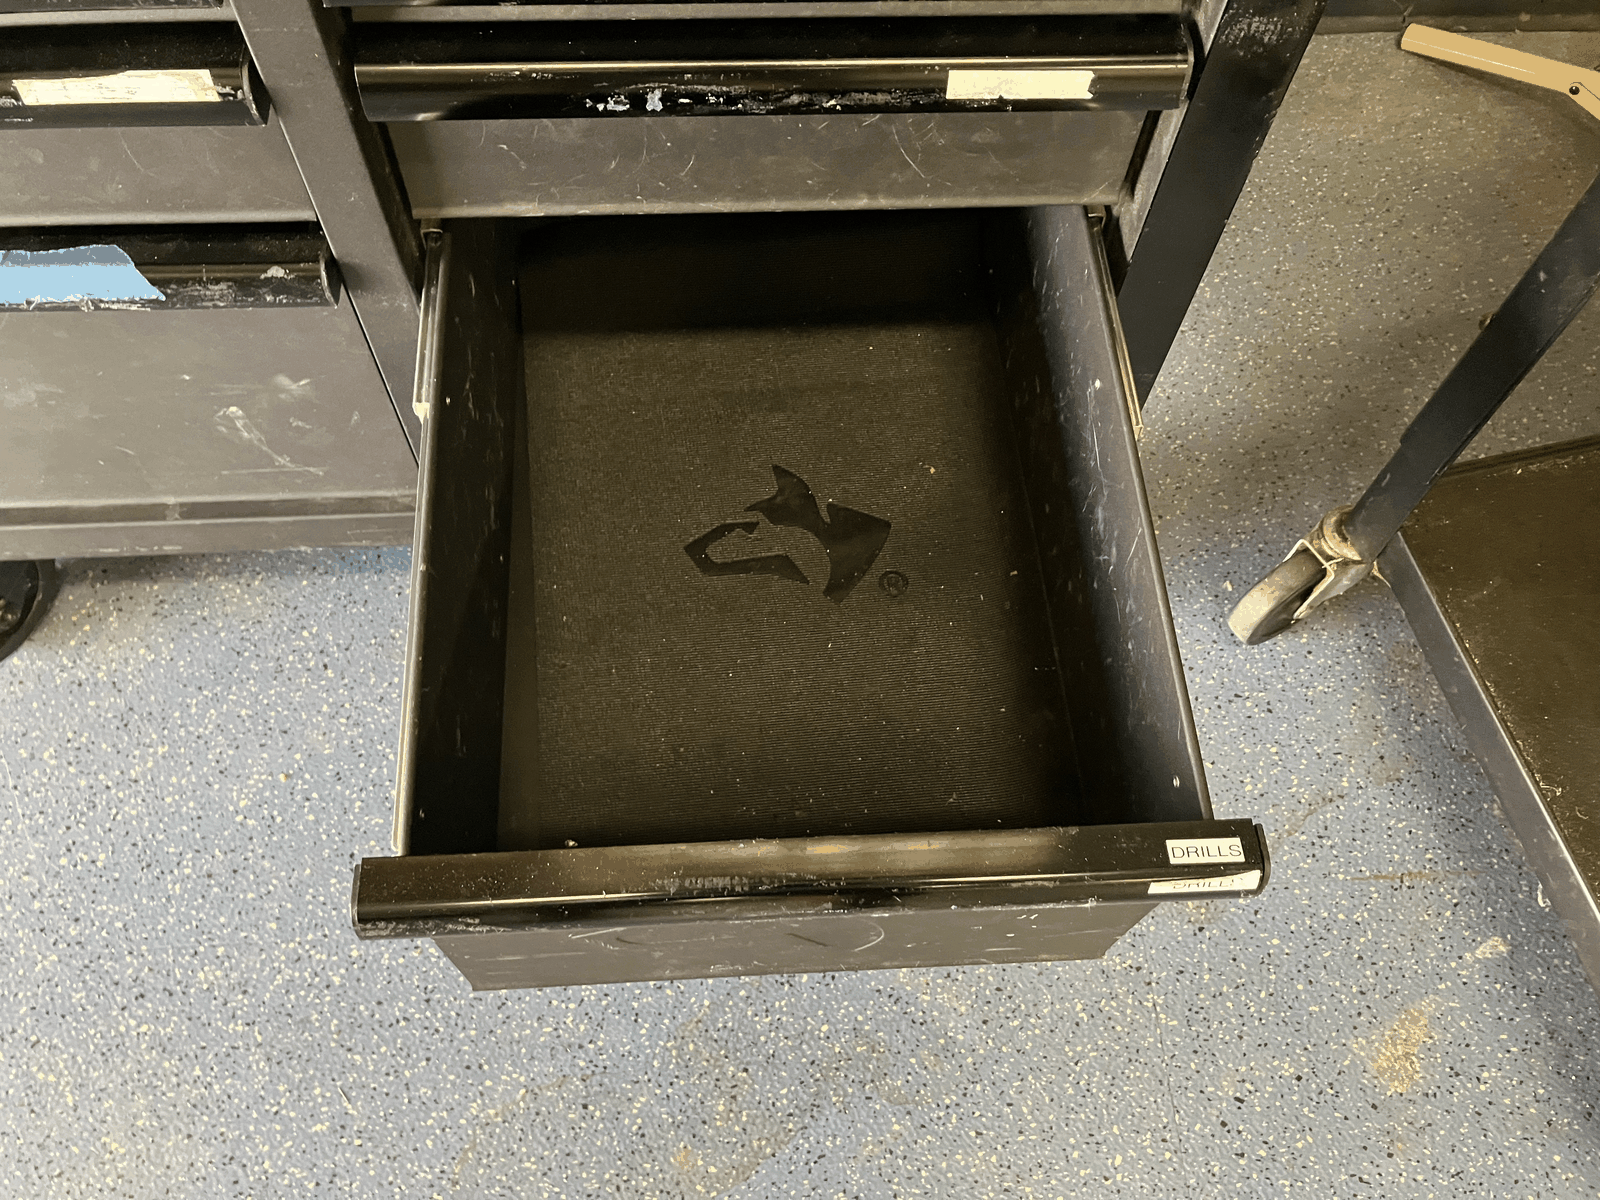
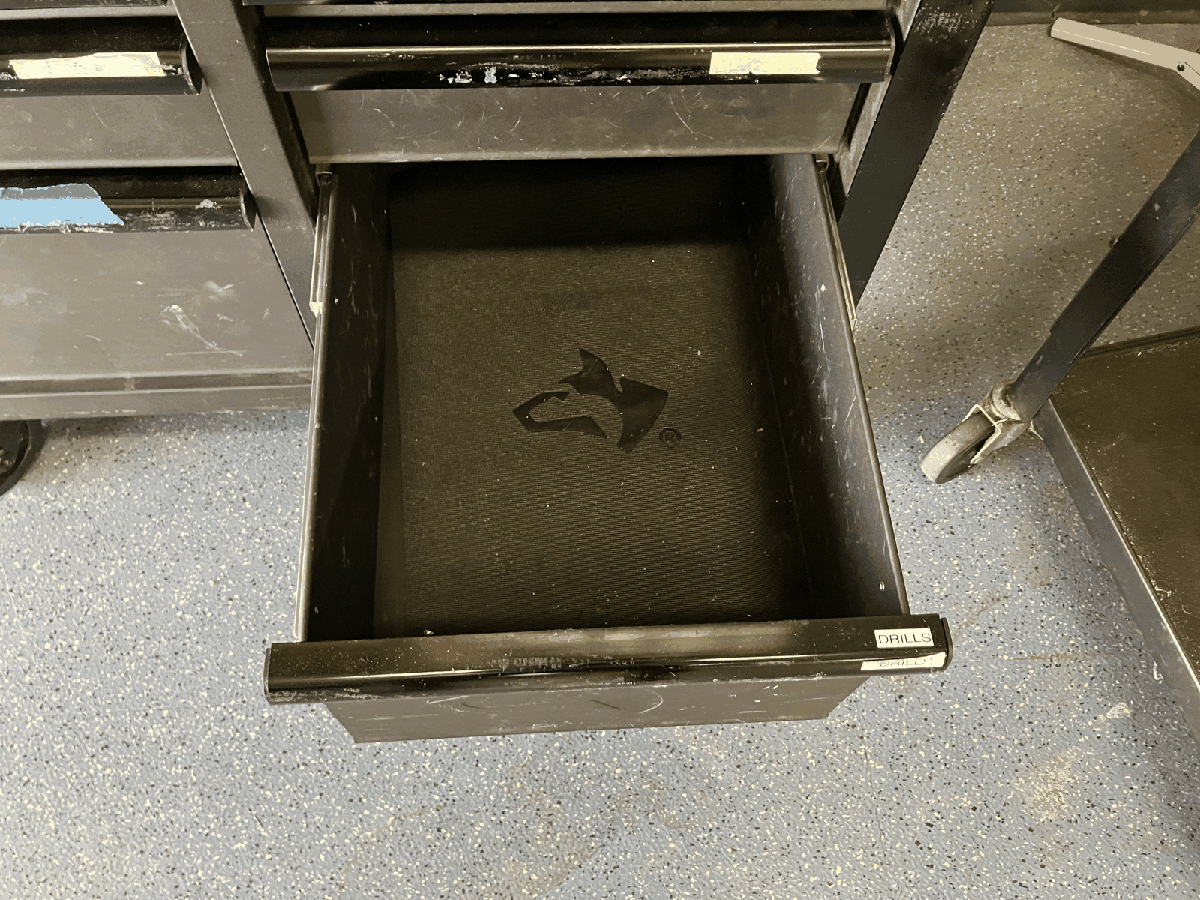
more compression and added progress to leads mode

diff --git a/templates/leads.html b/templates/leads.html
@@ -3,6 +3,27 @@
 <div class="admin-page">
   <h2>Leads</h2>
 
+  <div class="admin-card progress-card">
+    <h3>Packing Progress</h3>
+    {% if progress.overall.total == 0 %}
+      <p class="admin-note">No items yet — add tools and parts below.</p>
+    {% else %}
+      <div class="progress-rows">
+        {% for label, key in (('Tools', 'tools'), ('Parts', 'parts'), ('Overall', 'overall')) %}
+        <div class="progress-row">
+          <div class="progress-meta">
+            <span class="progress-label">{{ label }}</span>
+            <span class="progress-count">{{ progress[key].checked }}/{{ progress[key].total }} &middot; {{ progress[key].pct }}%</span>
+          </div>
+          <div class="progress-track" role="progressbar" aria-valuenow="{{ progress[key].pct }}" aria-valuemin="0" aria-valuemax="100" aria-label="{{ label }} packed">
+            <div class="progress-fill" style="width: {{ progress[key].pct }}%"></div>
+          </div>
+        </div>
+        {% endfor %}
+      </div>
+    {% endif %}
+  </div>
+
   <div class="admin-toolbar">
     <form action="/leads/reset" method="post" onsubmit="return confirm('Delete all tools and parts?')">
       <button type="submit" class="btn btn-danger">Reset All Data</button>

diff --git a/static/css/style.css b/static/css/style.css
@@ -638,6 +638,53 @@ button:active, .btn:active { transform: scale(0.97); }
   .admin-card h3 { margin-bottom: 16px; }
 }
 
+.progress-card { margin-bottom: 14px; }
+@media (min-width: 481px) { .progress-card { margin-bottom: 16px; } }
+
+.progress-rows { display: flex; flex-direction: column; gap: 12px; }
+
+.progress-row { display: flex; flex-direction: column; gap: 4px; }
+
+.progress-meta {
+  display: flex;
+  justify-content: space-between;
+  align-items: baseline;
+  gap: 8px;
+  font-size: 0.85rem;
+}
+
+.progress-label {
+  font-family: var(--font-heading);
+  font-size: 0.75rem;
+  text-transform: uppercase;
+  letter-spacing: 0.05em;
+  color: var(--yellow-200);
+}
+
+.progress-count {
+  font-family: var(--font-data);
+  font-weight: 600;
+  color: var(--yellow-100);
+  white-space: nowrap;
+}
+
+.progress-track {
+  display: block;
+  height: 14px;
+  background: var(--neutral-900);
+  border: 1px solid var(--neutral-800);
+  border-radius: 999px;
+  overflow: hidden;
+}
+
+.progress-fill {
+  display: block;
+  height: 100%;
+  background: var(--yellow-500);
+  border-radius: 999px;
+  transition: width var(--transition);
+}
+
 .lead-list { margin-top: 20px; }
 @media (min-width: 481px) { .lead-list { margin-top: 24px; } }
 

diff --git a/static/images/imgCompressor.py b/static/images/imgCompressor.py
@@ -12,15 +12,19 @@ Compress PNG images for low-bandwidth use.
 Usage:
     pip install pillow
     python compress_pngs.py INPUT_DIR OUTPUT_DIR [--max-dim 1600] [--colors 256] [--no-quantize]
+    python compress_pngs.py INPUT_DIR --in-place [--max-dim 1600] [--colors 256]
 
 Examples:
     python compress_pngs.py ./photos ./photos_compressed
     python compress_pngs.py ./photos ./photos_compressed --max-dim 1200 --colors 128
     python compress_pngs.py ./photos ./photos_compressed --no-quantize   # keep full color, just resize+optimize
+    python compress_pngs.py ./photos --in-place                           # overwrite originals (same names)
 """
 
 import argparse
+import os
 import sys
+import tempfile
 from pathlib import Path
 
 from PIL import Image
@@ -62,20 +66,31 @@ def compress_png(src_path: Path, dst_path: Path, max_dim: int, colors: int, quan
 def main():
     parser = argparse.ArgumentParser(description="Compress PNG images for low-bandwidth web use.")
     parser.add_argument("input_dir", type=Path, help="Folder containing source .png images")
-    parser.add_argument("output_dir", type=Path, help="Folder to write compressed .png images")
+    parser.add_argument("output_dir", type=Path, nargs="?", help="Folder to write compressed .png images")
+    parser.add_argument("--in-place", action="store_true",
+                        help="Overwrite the original files, keeping their names (ignores output_dir)")
     parser.add_argument("--max-dim", type=int, default=1600,
-                         help="Max width/height in pixels (default: 1600)")
+                        help="Max width/height in pixels (default: 1600)")
     parser.add_argument("--colors", type=int, default=256,
-                         help="Max palette colors when quantizing (default: 256, min useful ~64)")
+                        help="Max palette colors when quantizing (default: 256, min useful ~64)")
     parser.add_argument("--no-quantize", action="store_true",
-                         help="Skip color quantization, only resize + optimize")
+                        help="Skip color quantization, only resize + optimize")
     args = parser.parse_args()
 
     if not args.input_dir.is_dir():
         print(f"Input directory not found: {args.input_dir}", file=sys.stderr)
         sys.exit(1)
 
-    png_files = sorted(args.input_dir.glob("*.png")) + sorted(args.input_dir.glob("*.PNG"))
+    if args.in_place and args.output_dir:
+        parser.error("give either output_dir or --in-place, not both")
+    if not args.in_place and not args.output_dir:
+        parser.error("output_dir is required unless --in-place is used")
+    if not args.in_place:
+        args.output_dir.mkdir(parents=True, exist_ok=True)
+
+    # Case-insensitive filesystems (e.g. Windows) make *.png also match *.PNG,
+    # so dedupe to avoid processing every file twice.
+    png_files = sorted(set(args.input_dir.glob("*.png")) | set(args.input_dir.glob("*.PNG")))
     if not png_files:
         print(f"No .png files found in {args.input_dir}")
         sys.exit(0)
@@ -84,11 +99,24 @@ def main():
     total_after = 0
 
     for src in png_files:
-        dst = args.output_dir / src.name
         before = src.stat().st_size
+        tmp_path = None
+        dst = src if args.in_place else args.output_dir / src.name
         try:
-            compress_png(src, dst, args.max_dim, args.colors, quantize=not args.no_quantize)
+            if args.in_place:
+                # Compress to a temp file first, then swap it in only on success
+                # so a failure never destroys the original.
+                fd, tmp_name = tempfile.mkstemp(suffix=".png", dir=src.parent)
+                os.close(fd)
+                tmp_path = Path(tmp_name)
+                compress_png(src, tmp_path, args.max_dim, args.colors, quantize=not args.no_quantize)
+                os.replace(tmp_path, src)
+                tmp_path = None
+            else:
+                compress_png(src, dst, args.max_dim, args.colors, quantize=not args.no_quantize)
         except Exception as e:
+            if tmp_path is not None:
+                tmp_path.unlink(missing_ok=True)
             print(f"  FAILED: {src.name} -> {e}")
             continue
         after = dst.stat().st_size

diff --git a/app.py b/app.py
@@ -219,6 +219,31 @@ def admin_required(f):
     return wrapper
 
 
+def _pct(checked, total):
+    return round(100 * checked / total) if total else 0
+
+
+def _packing_progress():
+    def bucket(Model):
+        total = Model.query.count()
+        checked = Model.query.filter_by(checked=True).count()
+        return {'total': total, 'checked': checked, 'pct': _pct(checked, total)}
+
+    tools = bucket(Item)
+    parts = bucket(Part)
+    overall_checked = tools['checked'] + parts['checked']
+    overall_total = tools['total'] + parts['total']
+    return {
+        'tools': tools,
+        'parts': parts,
+        'overall': {
+            'total': overall_total,
+            'checked': overall_checked,
+            'pct': _pct(overall_checked, overall_total),
+        },
+    }
+
+
 @app.route('/leads', methods=['GET', 'POST'])
 @admin_required
 def leads():
@@ -252,7 +277,9 @@ def leads():
     items = Item.query.order_by(Item.created_at.desc()).all()
     parts = Part.query.order_by(Part.created_at.desc()).all()
     users = User.query.order_by(User.username.asc()).all()
-    return render_template('leads.html', items=items, parts=parts, users=users, locations=LOCATIONS)
+    progress = _packing_progress()
+    return render_template('leads.html', items=items, parts=parts, users=users,
+                           locations=LOCATIONS, progress=progress)
 
 
 @app.route('/leads/users/<int:user_id>/delete', methods=['POST'])
